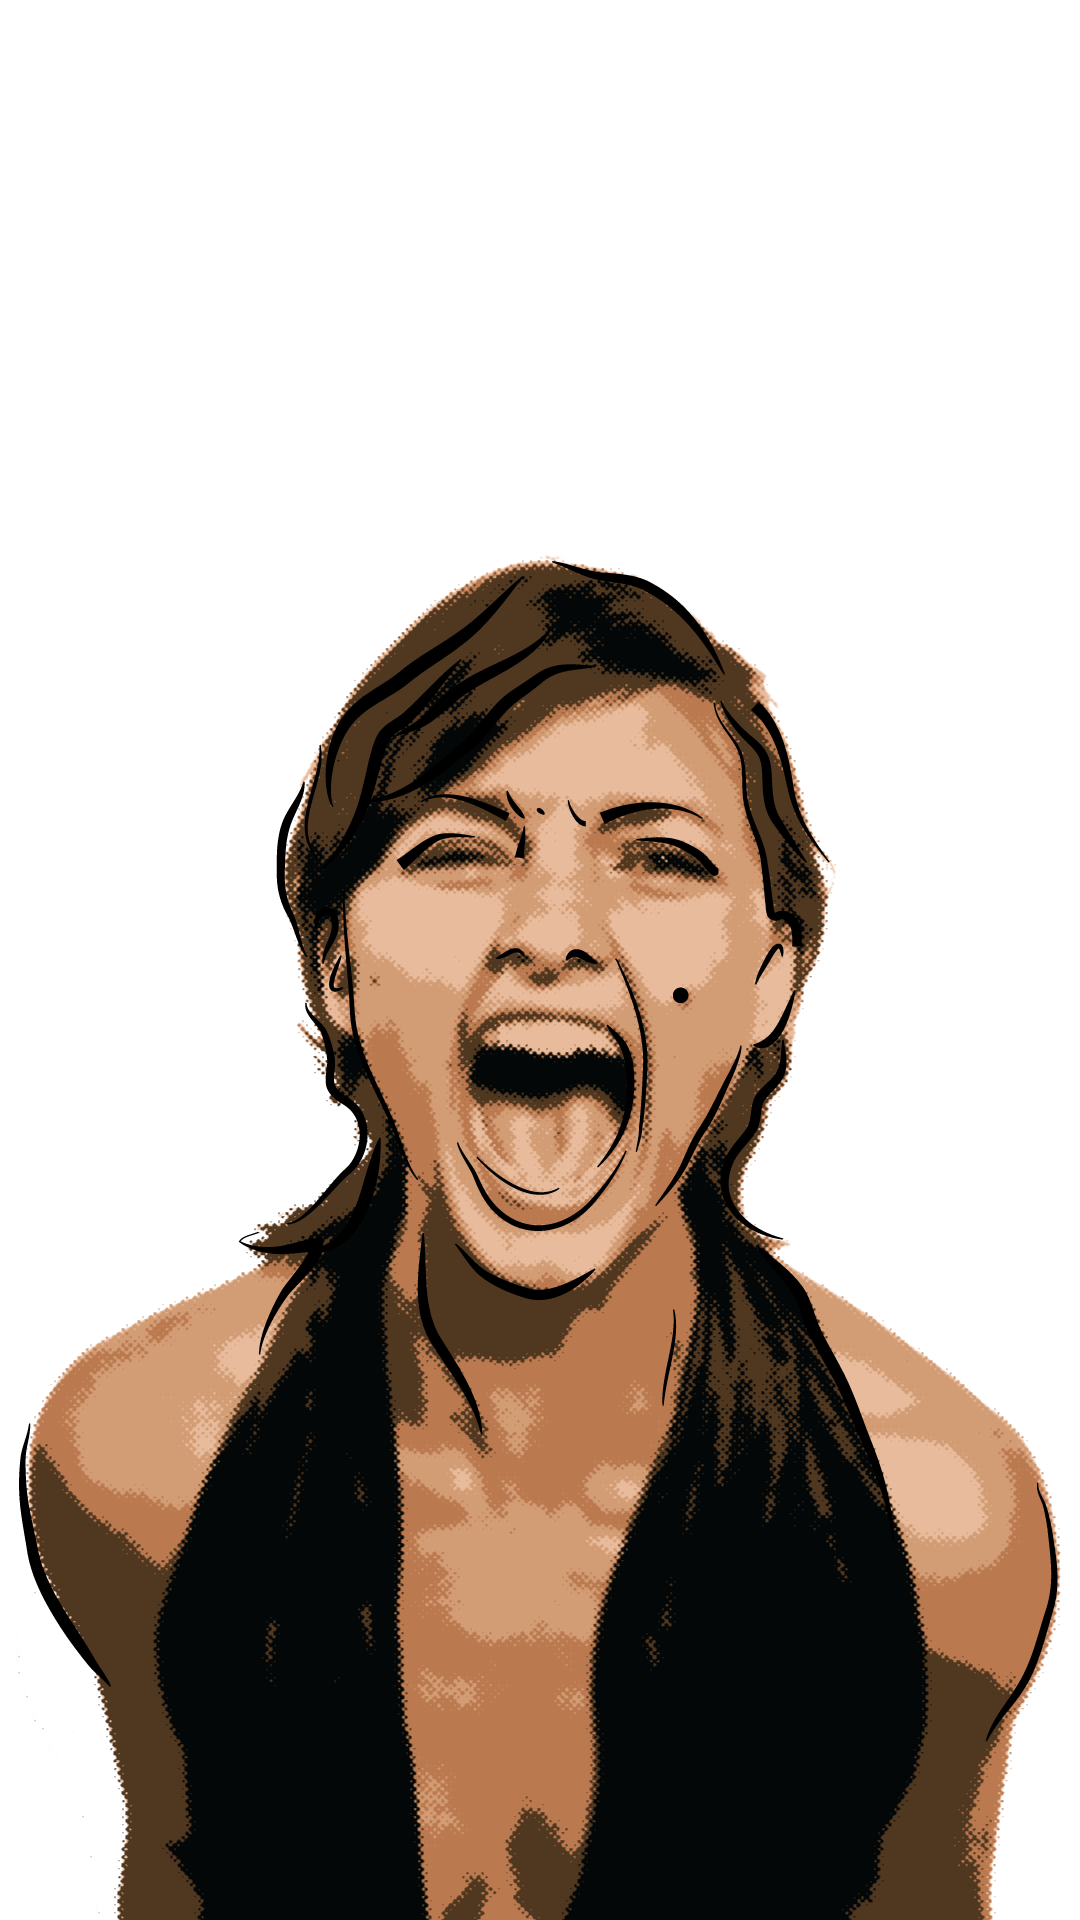
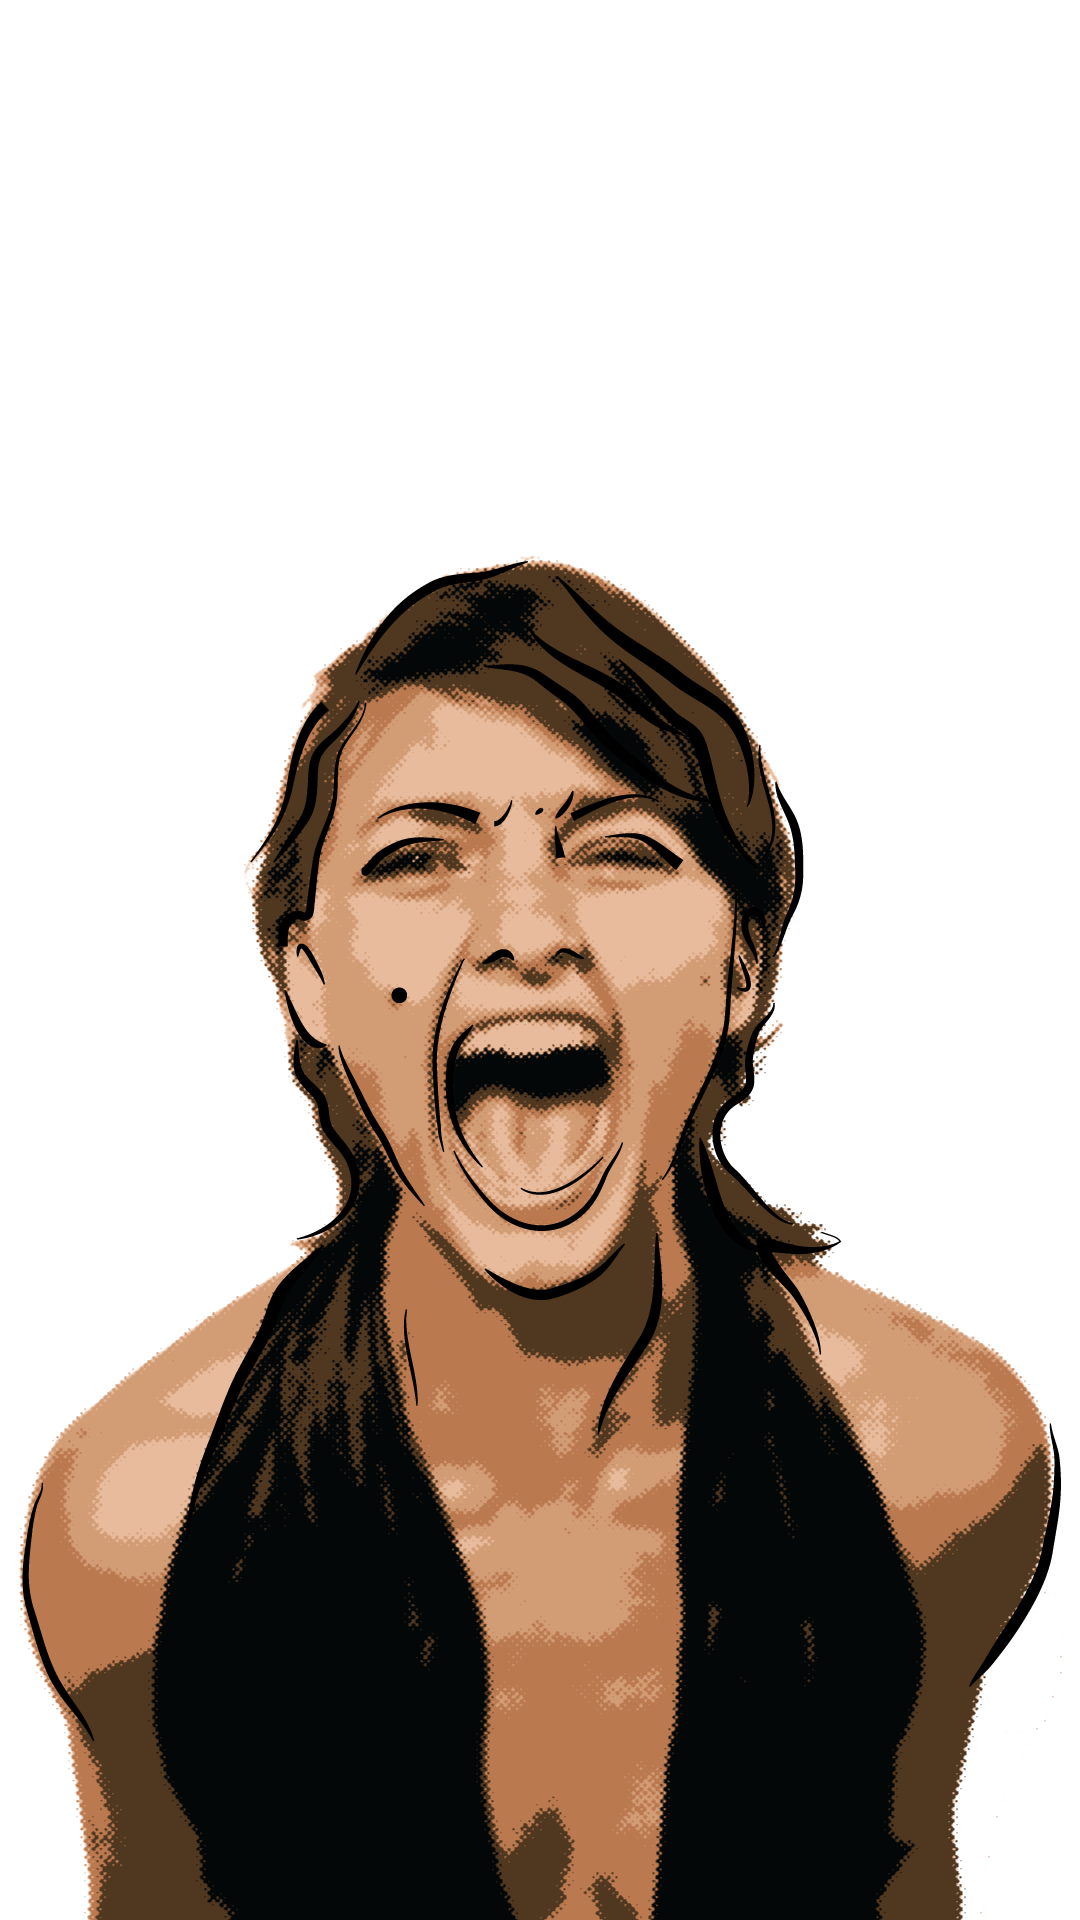
further adjustments to overall presentation of diffMaskShader

Changed region(s): [[0.0, 0.2812, 1.0, 1.0], [0.7333, 0.8438, 0.7639, 0.875], [0.2444, 0.8438, 0.275, 0.875]]

diff --git a/apps/myApps/diffMaskShader/src/ofApp.cpp b/apps/myApps/diffMaskShader/src/ofApp.cpp
@@ -23,6 +23,11 @@ void ofApp::setup(){
         }
 	}
     
+    if(waves.getWidth() != ofGetWidth()){
+        waves.resize(ofGetWidth(), ofGetHeight());
+         face.resize(ofGetWidth(), ofGetHeight());
+    }
+    
     //change this if you need to use primary camera
 	vidGrabber.setDeviceID(0);
 	vidGrabber.setDesiredFrameRate(60);
@@ -54,7 +59,7 @@ void ofApp::update(){
             diff.absDiff(grayImage, grayImagePrev);
             
             diffFloat = diff; //convert diffImage to float image
-            diffFloat *= 2.0; //amplify
+            diffFloat *= 5.0; //amplify
             
             if(!bufferFloat.bAllocated){
                 //If the buffer is not initialized, then just set it equal to diffFloat
@@ -80,10 +85,12 @@ void ofApp::draw(){
     shader.setUniformTexture("mask", diffTex, 0);
     shader.setUniformTexture("top", waves.getTextureReference(), 1);
 
-
     ofRect(0, 0, ofGetWidth(), ofGetHeight());
     shader.end();
     fbo.end();
+
+    ofScale(-1.0, 1.0);
+    ofTranslate(-ofGetWidth(), 0);
     
     waves.draw(0, 0);
     face.draw(0, 0);
